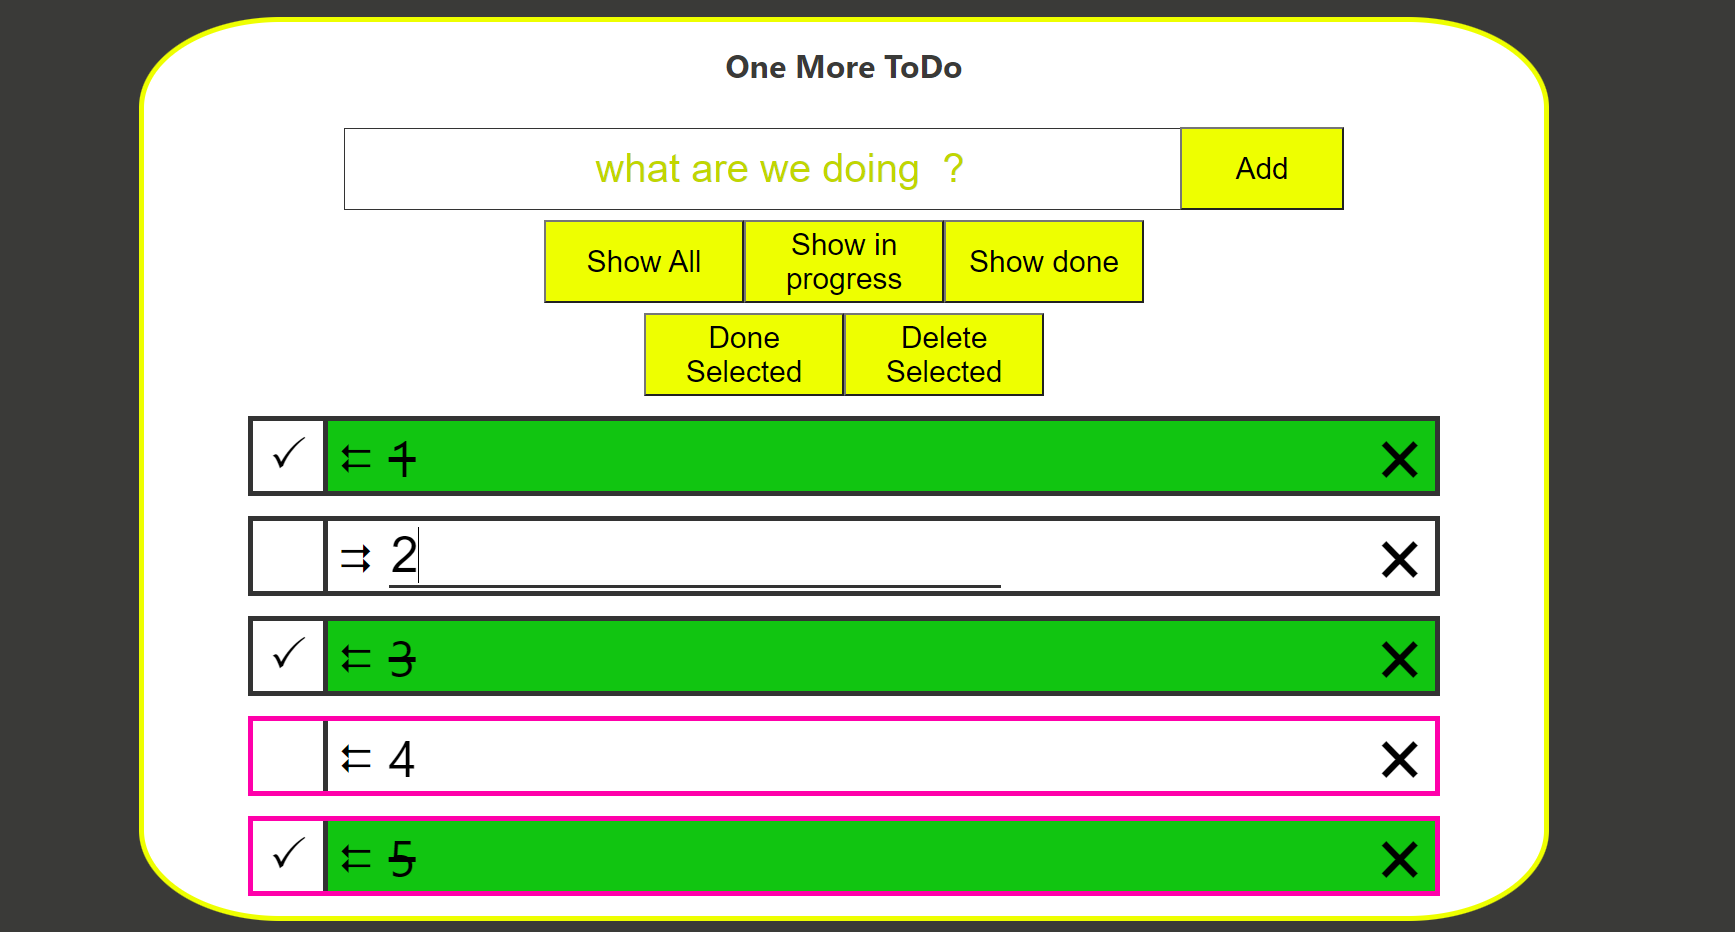
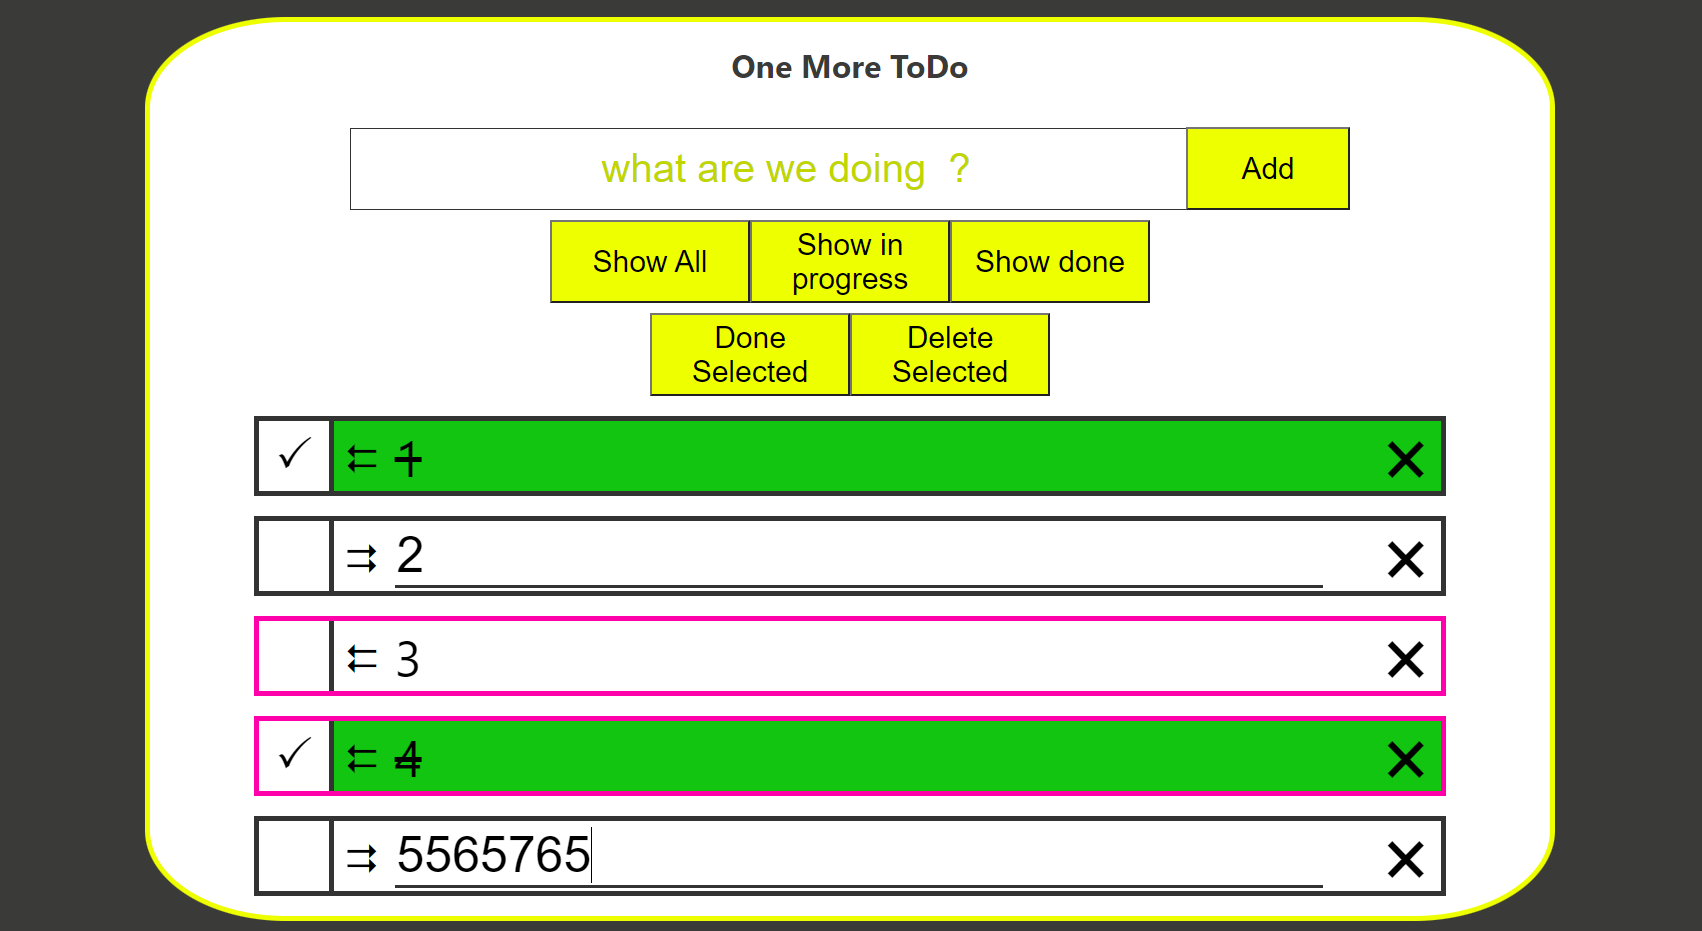
fix

diff --git a/src/components/ListItem/ListItem.module.css b/src/components/ListItem/ListItem.module.css
@@ -45,6 +45,7 @@
 }
 
 .input {
+  width: 87%;
   border: 0;
   border-bottom: 3px solid #333;
   font-size: 50px;
@@ -103,6 +104,7 @@
 .wrap {
   display: flex;
   align-items: center;
+  width: 90%;
 }
 
 .redact {
